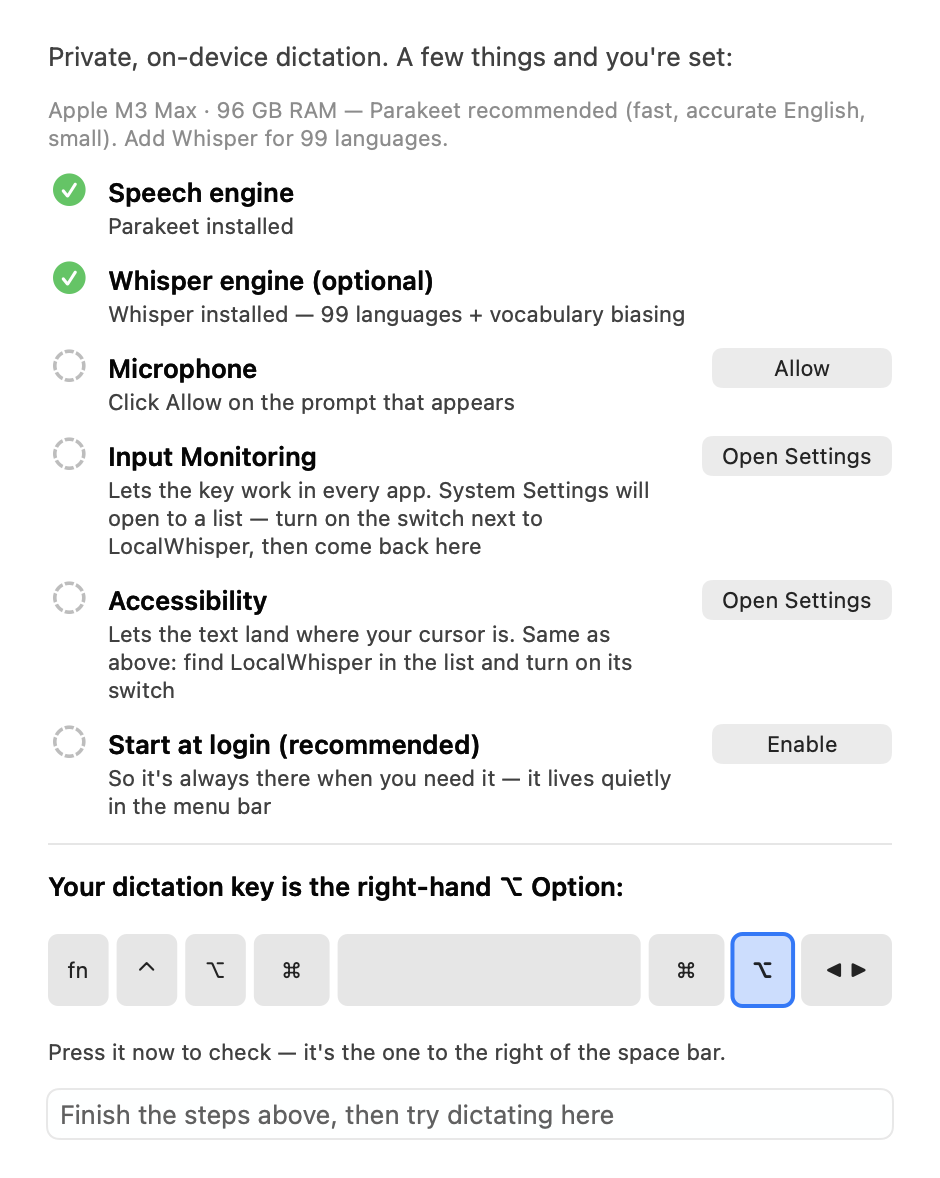
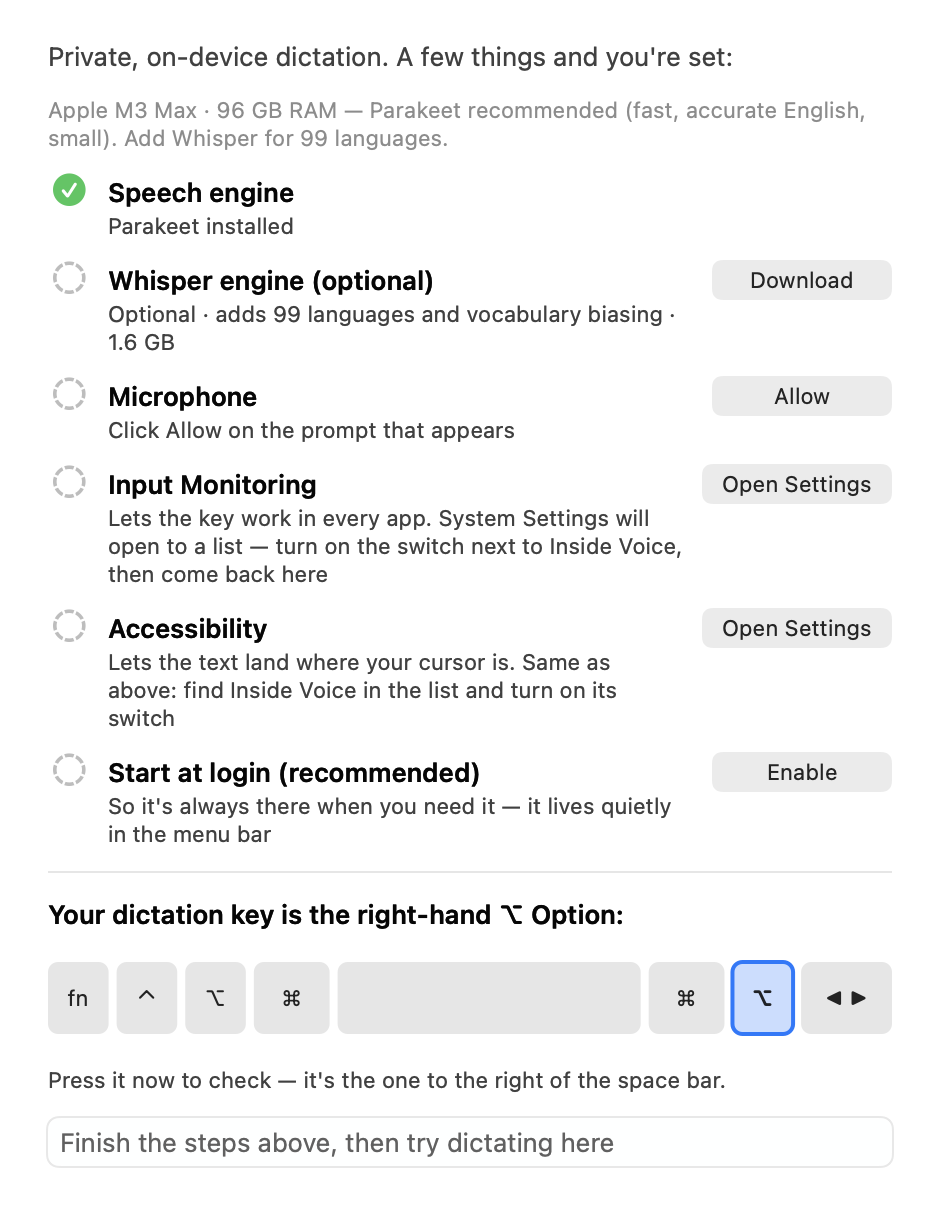
Docs for 1.3.0

diff --git a/README.md b/README.md
@@ -1,11 +1,11 @@
 <!-- Public README. Lives in the private source repo at distribution/README.md
      and is copied to the public repo by scripts/publish-release.sh. Edit it there. -->
-# LocalWhisper
+# Inside Voice
 
 **Push-to-talk dictation for macOS that never leaves your Mac.** Hold Right ⌥
 (Option), speak, release — the transcript lands in whatever app has focus.
 
-[![Latest release](https://img.shields.io/github/v/release/BillDX/LocalWhisper?label=download&color=2ea44f)](https://github.com/BillDX/LocalWhisper/releases/latest)
+[![Latest release](https://img.shields.io/github/v/release/BillDX/InsideVoice?label=download&color=2ea44f)](https://github.com/BillDX/InsideVoice/releases/latest)
 ![Platform](https://img.shields.io/badge/macOS%2014%2B-Apple%20Silicon-black)
 
 ![The HUD while listening](docs/images/hud-listening.png)
@@ -19,9 +19,23 @@
 
 ## Download
 
-**[Download the latest DMG →](https://github.com/BillDX/LocalWhisper/releases/latest)**
-Open it, drag LocalWhisper to Applications, launch. The speech engine
+**[Download the latest DMG →](https://github.com/BillDX/InsideVoice/releases/latest)**
+Open it, drag Inside Voice to Applications, launch. The speech engine
 (Parakeet, 669 MB) downloads on first launch, checksum-verified.
+
+Or with Homebrew:
+
+```bash
+brew install --cask BillDX/tap/inside-voice
+```
+
+Add `--no-quarantine` to that command to skip the Gatekeeper step below.
+
+**Upgrading from LocalWhisper 1.2.0?** Same app, new name. Your models,
+vocabulary, substitution rules, and settings move over automatically on
+first launch. macOS treats the renamed app as new, so it will ask for the
+three permissions again and you'll re-enable Launch at Login; then delete
+the old LocalWhisper.app.
 
 Requirements: Apple Silicon Mac, macOS 14 or later (built and tested on
 macOS 26; 14 and 15 are untested). RAM while running: ~0.8 GB with Parakeet,
@@ -36,14 +50,14 @@ ID, so macOS will say it "could not verify" the app. Pick one:
 Gatekeeper never gets involved:
 
 ```bash
-curl -L -o ~/Downloads/LocalWhisper.dmg https://github.com/BillDX/LocalWhisper/releases/latest/download/LocalWhisper.dmg
+curl -L -o ~/Downloads/InsideVoice.dmg https://github.com/BillDX/InsideVoice/releases/latest/download/InsideVoice.dmg
 ```
 
 **Browser download.** After dragging to Applications, either clear the
 quarantine flag:
 
 ```bash
-xattr -dr com.apple.quarantine /Applications/LocalWhisper.app
+xattr -dr com.apple.quarantine "/Applications/Inside Voice.app"
 ```
 
 or open the app once, dismiss the warning, then System Settings → Privacy &
@@ -101,7 +115,7 @@ your settings.
 
 ## Why this exists
 
-LocalWhisper is a working demonstration of **sovereign, on-device AI**: a
+Inside Voice is a working demonstration of **sovereign, on-device AI**: a
 complete speech product with no cloud dependency, provenance-verified models
 (SHA-256 checked against the publishers' hashes), a codebase small enough to
 audit in an afternoon, and no data exhaust. Built by
@@ -122,6 +136,6 @@ models it builds on.
 
 ## Feedback
 
-[Open an issue](https://github.com/BillDX/LocalWhisper/issues). The app logs
+[Open an issue](https://github.com/BillDX/InsideVoice/issues). The app logs
 nothing, so what you said vs. what appeared, plus your Mac model and macOS
 version, is the whole bug report.

diff --git a/USER-GUIDE.md b/USER-GUIDE.md
@@ -1,4 +1,4 @@
-# LocalWhisper User Guide
+# Inside Voice User Guide
 
 ## Core Function: 
 
@@ -25,7 +25,7 @@ Some details you'll discover anyway, made explicit:
 
 - A **quick tap does nothing** — presses shorter than about a third of a
   second are ignored, so using Right ⌥ as a normal modifier key stays safe.
-  The key still works as Option for other apps even while LocalWhisper
+  The key still works as Option for other apps even while Inside Voice
   watches it.
 - **Silence is trimmed** from both ends of your recording, and an all-silent
   clip is discarded without transcribing. Long pauses *inside* a dictation
@@ -153,12 +153,12 @@ field). Harmless to open anytime.
   Transcription* menu item, and vanishes on quit.
 - What *is* stored on disk: the speech model(s) you downloaded, your
   vocabulary and substitution text files, and your settings
-  (`~/Library/Application Support/LocalWhisper/`, plus standard macOS
+  (`~/Library/Application Support/Inside Voice/`, plus standard macOS
   preferences). No audio, no history, no logs.
 
 ## Troubleshooting
 
-**Hotkey only works when LocalWhisper is frontmost** — the classic. Input
+**Hotkey only works when Inside Voice is frontmost** — the classic. Input
 Monitoring isn't granted: menu → Permissions — action needed → Input
 Monitoring (or Setup Assistant…). The app picks the grant up within a few
 seconds; no relaunch needed.
@@ -196,17 +196,23 @@ Parakeet (or Auto with vocabulary off) if speed matters more than jargon.
 
 ## Updating
 
-For now, updates arrive as a new DMG: open it, drag LocalWhisper to
+For now, updates arrive as a new DMG: open it, drag Inside Voice to
 Applications, and click Replace. Everything important survives the swap —
 
 - your three permission grants (they're tied to the app's signing identity,
   not the individual build),
 - the downloaded models, your vocabulary and substitution lists, and all
-  settings (they live in `~/Library/Application Support/LocalWhisper/`,
+  settings (they live in `~/Library/Application Support/Inside Voice/`,
   outside the app).
 
-Quit the running copy first (menu → Quit LocalWhisper), replace, relaunch.
+Quit the running copy first (menu → Quit Inside Voice), replace, relaunch.
 If it was set to launch at login, that carries over too.
+
+**Coming from LocalWhisper (1.2.0 or earlier):** the 1.3.0 rename keeps your
+models, lists, and settings — they're moved to the new locations on first
+launch — but macOS treats the renamed app as new: re-grant the three
+permissions (the Setup Assistant opens to walk you through it), re-enable
+Launch at Login, and delete the old LocalWhisper.app.
 
 In-app automatic updates ("a new version is available…") are planned for
 the notarized public release.

diff --git a/LICENSING.md b/LICENSING.md
@@ -1,6 +1,6 @@
 # Licensing
 
-LocalWhisper is free software. You may use, study, share, and modify it
+Inside Voice is free software. You may use, study, share, and modify it
 under **either** of the following licenses, at your option:
 
 - the **European Union Public Licence v. 1.2** (EUPL-1.2) — see
@@ -24,13 +24,13 @@ Copyright © 2026 Bill McIntyre.
 ## Free for everyone, including businesses
 
 Neither license restricts *use*. Individuals, companies, schools, and
-public bodies may run LocalWhisper on as many Macs as they like at no
+public bodies may run Inside Voice on as many Macs as they like at no
 cost. The open edition has no personal-use-only clause.
 
 ## Commercial licensing
 
 If the copyleft terms don't fit — for example you want to embed
-LocalWhisper's code in a proprietary product, redistribute it without
+Inside Voice's code in a proprietary product, redistribute it without
 source, or your organization's policy excludes copyleft software — a
 commercial license is available from the copyright holder. Email
 <inquiries@atomo.com>, or open a GitHub issue titled "Commercial license".
@@ -42,9 +42,9 @@ are licensed on their own terms and do not change the terms above.
 
 ## Trademark
 
-The name "LocalWhisper" and the app icon are not covered by the software
+The name "Inside Voice" and the app icon are not covered by the software
 licenses. You may use the name to refer to this project truthfully ("a
-fork of LocalWhisper", "built from the LocalWhisper source"). If you
+fork of Inside Voice", "built from the Inside Voice source"). If you
 distribute a *modified* version, please give it a different name and icon
 so users can tell whose build they are running and where to report
 problems. Unmodified builds from this repository may keep the name.

diff --git a/CONTRIBUTING.md b/CONTRIBUTING.md
@@ -16,8 +16,8 @@ Practical notes:
 
 - Build with `scripts/build.sh` (README → Build from source). Before
   opening a PR, run the self-test, which needs no permissions:
-  `build/LocalWhisper.app/Contents/MacOS/LocalWhisper --selftest --engine both`
-- New theme: add a `Theme` under `Sources/LocalWhisper/Themes/`, register
+  `"build/Inside Voice.app/Contents/MacOS/InsideVoice" --selftest --engine both`
+- New theme: add a `Theme` under `Sources/Inside Voice/Themes/`, register
   it in `Themes.all`, render it with `--snapshot-hud`, and add the PNG to
   `docs/images/themes/` plus a row in the User Guide gallery.
 - Keep the privacy invariants: no audio to disk, no transcript logging,
@@ -25,7 +25,7 @@ Practical notes:
 
 ## Contributor License Agreement
 
-LocalWhisper is dual-licensed (`EUPL-1.2 OR GPL-3.0-or-later`), and the
+Inside Voice is dual-licensed (`EUPL-1.2 OR GPL-3.0-or-later`), and the
 copyright holder also offers commercial licenses and builds commercial
 editions on the same code. That only works if the project holds the
 rights to relicense everything it ships. So, by submitting a contribution
@@ -63,7 +63,7 @@ valuable; someone else can implement it.
 
 ## AI-assisted contributions
 
-Much of LocalWhisper was written with an AI coding assistant under close
+Much of Inside Voice was written with an AI coding assistant under close
 human direction, and AI-assisted contributions are fine. You remain
 responsible for what you submit: review it, test it, and make sure it
 doesn't reproduce third-party code under an incompatible license.

diff --git a/THIRD-PARTY-LICENSES.md b/THIRD-PARTY-LICENSES.md
@@ -1,10 +1,10 @@
 # Third-Party Licenses
 
-LocalWhisper itself is dual-licensed `EUPL-1.2 OR GPL-3.0-or-later` (see
+Inside Voice itself is dual-licensed `EUPL-1.2 OR GPL-3.0-or-later` (see
 LICENSING.md). It builds on, vendors, or
 downloads the following third-party work.
 
-## Libraries (vendored into LocalWhisper.app/Contents/Frameworks)
+## Libraries (vendored into Inside Voice.app/Contents/Frameworks)
 
 ### whisper.cpp (libwhisper, libparakeet) — MIT License
 Copyright (c) 2023-2026 The ggml authors (Georgi Gerganov and contributors)
@@ -59,7 +59,7 @@ DEALINGS IN THE SOFTWARE.
 
 ## Trademarks
 
-Theme names and visuals in LocalWhisper are original, evoking general
+Theme names and visuals in Inside Voice are original, evoking general
 technology eras (CRT terminals, oscilloscopes, punch cards, 8-bit home
 computers, sci-fi film computers). No affiliation with or endorsement by
 any film studio, broadcaster, or computer manufacturer is implied.

diff --git a/CHANGELOG.md b/CHANGELOG.md
@@ -1,5 +1,19 @@
 # Changelog
 
+## 1.3.0 — 2026-09-13
+
+- **Renamed to Inside Voice** (was LocalWhisper). Models, vocabulary,
+  substitution rules, and settings move to the new locations automatically
+  on first launch (`~/Library/Application Support/Inside Voice/`,
+  defaults domain `com.thinkiac.InsideVoice`). The bundle identifier
+  changed, so macOS sees a new app: re-grant Microphone, Input Monitoring,
+  and Accessibility once (the Setup Assistant opens to walk you through it)
+  and re-enable Launch at Login. Delete the old LocalWhisper.app. The retro
+  themes print the new name; developer env overrides are now
+  `INSIDEVOICE_MODEL` / `INSIDEVOICE_PARAKEET_MODEL`.
+- Homebrew tap: `brew install --cask BillDX/tap/inside-voice`.
+- Public repo moved to github.com/BillDX/InsideVoice; old links redirect.
+
 ## 1.2.0 — 2026-09-13
 
 - First public download release: DMG and docs at
